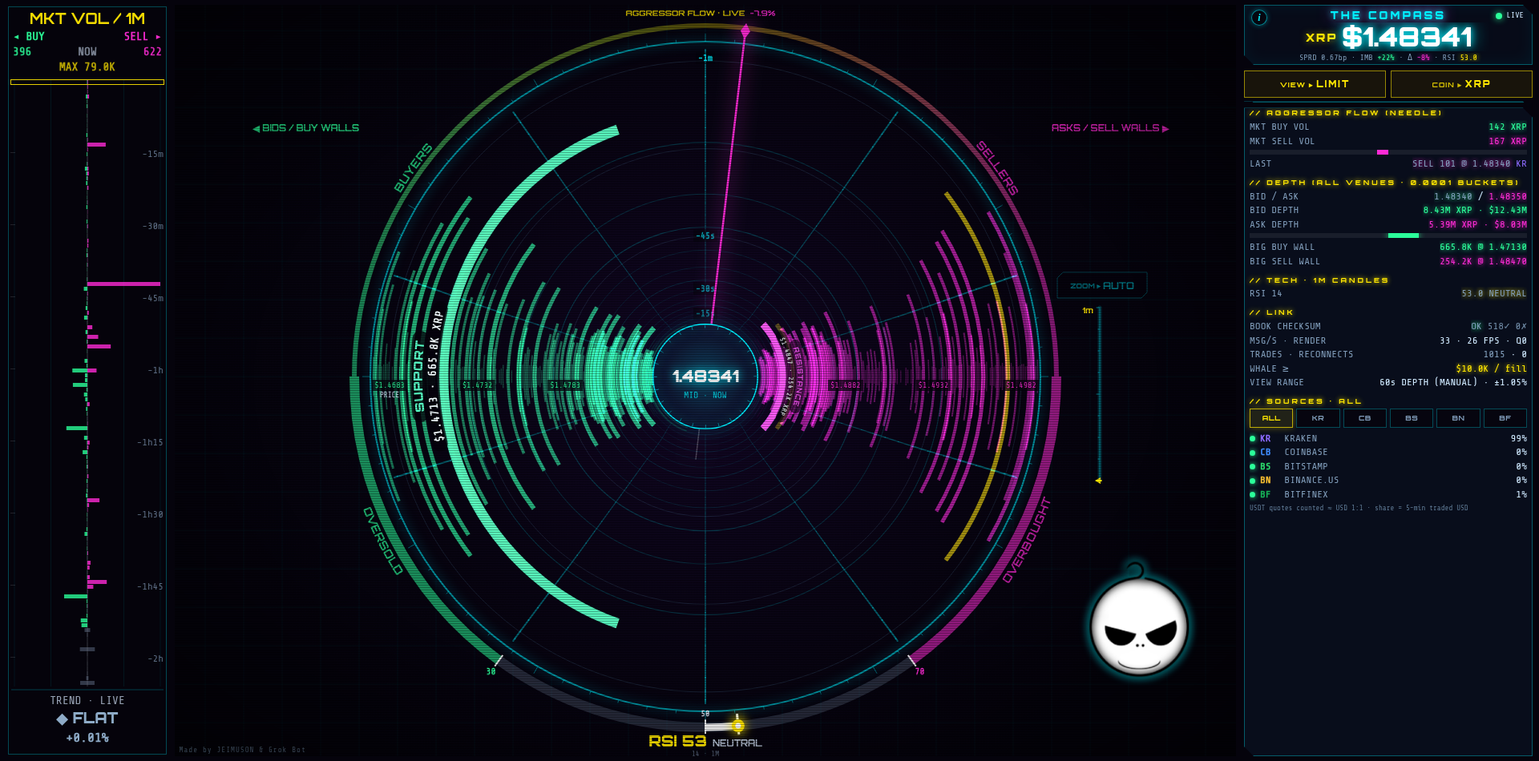
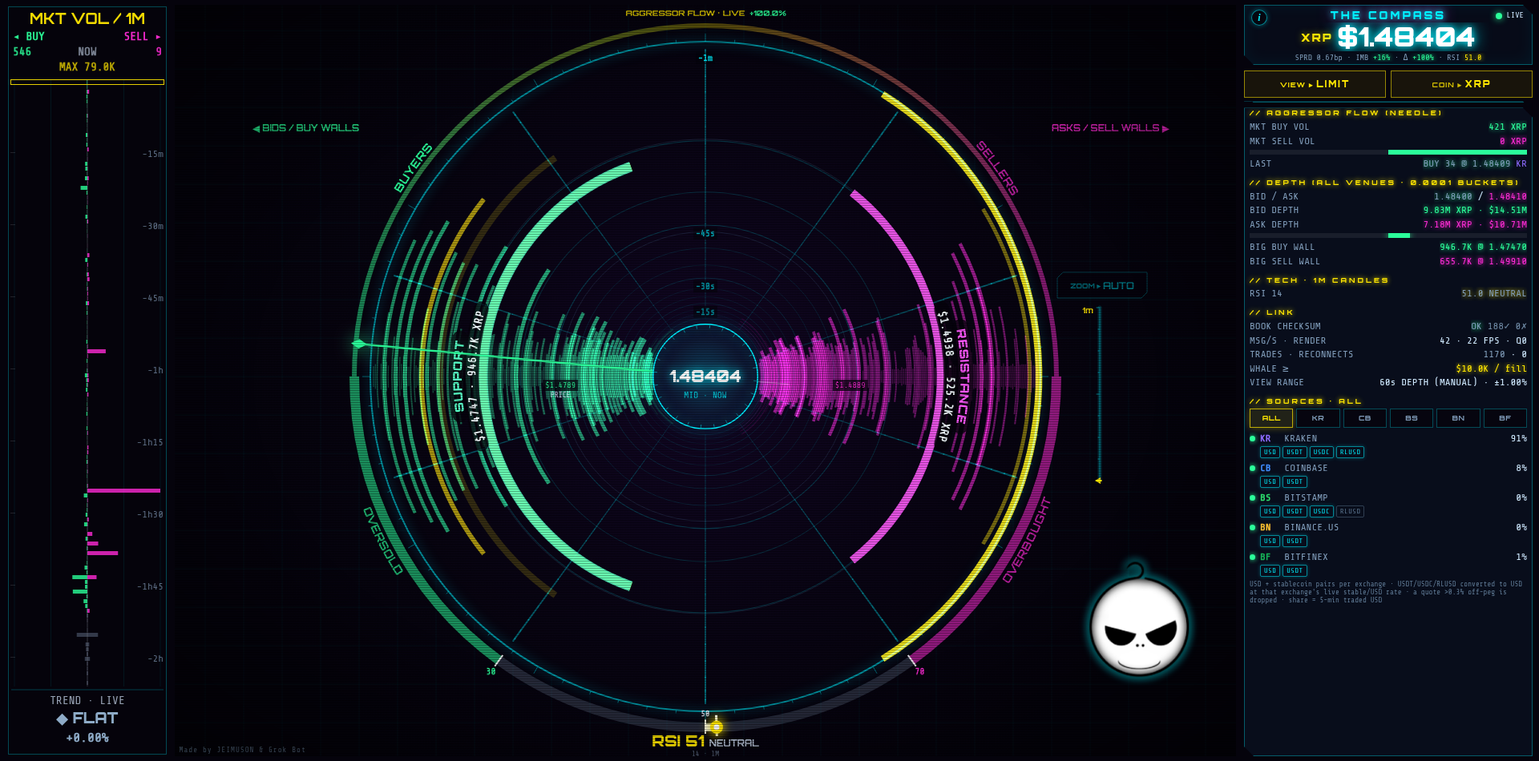
Merge USDT/USDC/RLUSD pairs per exchange, converted at live stable/USD rates, off-peg guard, SRC quote chips (build 20261003-0700)

diff --git a/index.html b/index.html
@@ -3,7 +3,7 @@
 <head>
 <meta charset="utf-8">
 <meta http-equiv="Cache-Control" content="no-cache, no-store, must-revalidate"><meta http-equiv="Pragma" content="no-cache"><meta http-equiv="Expires" content="0">
-<script>window.OFC_BUILD='20261003-0613';try{localStorage.removeItem('ofc.trail')}catch(e){};(function(){try{if(!/^https?:/.test(location.protocol))return;fetch(location.pathname+'?_='+Date.now(),{cache:'no-store'}).then(r=>r.text()).then(t=>{const m=t.match(/OFC_BUILD='([^']+)'/);if(m&&m[1]!==window.OFC_BUILD&&sessionStorage.getItem('ofcB')!==m[1]){sessionStorage.setItem('ofcB',m[1]);location.replace(location.pathname+'?v='+m[1]+location.hash);}}).catch(()=>{});}catch(e){}})();</script>
+<script>window.OFC_BUILD='20261003-0700';try{localStorage.removeItem('ofc.trail')}catch(e){};(function(){try{if(!/^https?:/.test(location.protocol))return;fetch(location.pathname+'?_='+Date.now(),{cache:'no-store'}).then(r=>r.text()).then(t=>{const m=t.match(/OFC_BUILD='([^']+)'/);if(m&&m[1]!==window.OFC_BUILD&&sessionStorage.getItem('ofcB')!==m[1]){sessionStorage.setItem('ofcB',m[1]);location.replace(location.pathname+'?v='+m[1]+location.hash);}}).catch(()=>{});}catch(e){}})();</script>
 <script>/* viewport height guard: Android standalone PWAs can report a stale/too-tall 100dvh right after a reload (e.g. coin switch) -> size from the smallest sane measurement and keep re-checking */
 (function(){var R=document.documentElement;function m(){var v=window.visualViewport,c=[window.innerHeight,R.clientHeight];if(v&&v.height>0)c.push(v.height);c=c.filter(function(x){return x>100;});if(!c.length)return;
   var h=Math.round(Math.min.apply(null,c))+'px';if(R.style.getPropertyValue('--apph')!==h){R.style.setProperty('--apph',h);try{window.dispatchEvent(new Event('ofc-vh'));}catch(e){}}}
@@ -93,6 +93,8 @@ body.hublogo #top .logo{display:none}   /* mobile: logo lives in the compass hub
 #srcBtns button.on{color:var(--yl);border-color:rgba(255,230,0,.7);background:rgba(255,230,0,.1);box-shadow:0 0 8px rgba(255,230,0,.35)}
 #srcList .row .dot{display:inline-block;width:7px;height:7px;border-radius:50%;margin-right:6px;vertical-align:middle}
 #srcList .row .vt{display:inline-block;min-width:2.4em;font-weight:700}
+#srcList .qcs{display:flex;flex-wrap:wrap;gap:3px;margin:1px 0 4px 13px}#srcList .qc{font-size:8.5px;line-height:1;padding:2px 4px;border:1px solid rgba(95,122,149,.45);color:#5f7a95;letter-spacing:.5px;border-radius:2px}
+#srcList .qc.on{color:var(--cy);border-color:rgba(0,240,255,.55);box-shadow:0 0 5px rgba(0,240,255,.25)}#srcList .qc.x{color:#ff3b6b;border-color:rgba(255,59,107,.5);text-decoration:line-through}
 .srcNote{font-size:9px;color:#5f7a95;margin-top:3px}
 #pages .row{font-size:11px}
 #pages h3{margin-right:44px}
@@ -177,7 +179,7 @@ body.hublogo #top .logo{display:none}   /* mobile: logo lives in the compass hub
 <body>
 <div id="coinPk" role="dialog" aria-modal="true" aria-labelledby="coinT"><div id="coinBox" class="panel">
  <div id="coinHd"><h2 id="coinT">// SELECT COIN</h2><button id="coinX" aria-label="close">✕</button></div>
- <div id="coinGrid"></div><div class="infoFoot">all pairs in USD · Kraken, Coinbase, Bitstamp, Binance.US, Bitfinex</div></div></div>
+ <div id="coinGrid"></div><div class="infoFoot">USD + USDT / USDC / RLUSD pairs, priced in USD at live rates · Kraken, Coinbase, Bitstamp, Binance.US, Bitfinex</div></div></div>
 <div id="tip" role="dialog" aria-modal="true" aria-labelledby="tipT"><div id="tipBox" class="panel">
  <div id="tipHd"><h2 id="tipT">// FOUND THE SECRET</h2><button id="tipX" aria-label="close">✕</button></div>
  <div id="tipBody"><img src="logo-128.png" alt="" width="72" height="72"><p class="tipS">Enjoying the compass? Buy me a coffee ☕</p><a id="tipGo" href="https://ko-fi.com/jeimuson" target="_blank" rel="noopener">Tip on Ko-fi</a>
@@ -205,8 +207,8 @@ body.hublogo #top .logo{display:none}   /* mobile: logo lives in the compass hub
  <li><b>AUTO off</b> = full zoom out; then zoom by pinch, wheel or the zoom bar.</li></ul>
  <h3>ALSO</h3>
  <ul><li><b>RSI arc</b> (bottom): momentum. Left = oversold, right = overbought.</li>
- <li><b>SRC</b>: venues feeding the book. Pick ALL or one exchange.</li>
- <li><b>COIN</b>: switch between BTC, ETH, XRP, SOL and other big coins (USD pairs on all five exchanges). Your pick is remembered; links can use <b>?coin=ETH</b>.</li></ul>
+ <li><b>SRC</b>: venues feeding the book. Pick ALL or one exchange. Each exchange merges its USD pair with its <b>USDT / USDC / RLUSD</b> pairs where listed (chips show which are live). Stablecoin prices are converted to USD at that exchange's live stable/USD rate; a quote more than ~0.3% off-peg is left out.</li>
+ <li><b>COIN</b>: switch between BTC, ETH, XRP, SOL and other big coins (USD and stablecoin pairs from all five exchanges). Your pick is remembered; links can use <b>?coin=ETH</b>.</li></ul>
  <div class="infoCred">Made by JEIMUSON &amp; Grok Bot</div>
  <div class="infoFoot">tap outside, ✕ or Esc to close</div>
  </div>
@@ -258,7 +260,7 @@ body.hublogo #top .logo{display:none}   /* mobile: logo lives in the compass hub
     <h3>// SOURCES · <span class="yl" id="srcSel">ALL</span></h3>
     <div id="srcBtns"></div>
     <div id="srcList"></div>
-    <div class="srcNote">USDT quotes counted ≈ USD 1:1 · share = 5-min traded USD</div>
+    <div class="srcNote">USD + stablecoin pairs per exchange · USDT/USDC/RLUSD converted to USD at that exchange's live stable/USD rate · a quote &gt;0.3% off-peg is dropped · share = 5-min traded USD</div>
    </div>
   </div>
 </div>
@@ -283,6 +285,20 @@ const COINS={
 const COIN=(()=>{let c='';try{c=(new URLSearchParams(location.search).get('coin')||'').toUpperCase();}catch(e){}
   if(!COINS[c]){try{c=localStorage.getItem('ofc.coin')||'';}catch(e){}}if(!COINS[c])c='XRP';try{localStorage.setItem('ofc.coin',c);}catch(e){}return c;})();
 const CC=COINS[COIN];window.COIN=COIN;window.COINS_LIST=Object.keys(COINS);
+// stablecoin pairs merged next to each USD pair (listed + trading with real 24h volume per the public APIs, checked 2026-10-03;
+// skipped: Binance.US ADA/USDC ~$0 volume; Coinbase USDC pairs are delisted (USDC trades as USD there); Bitfinex has no USDC/RLUSD pairs)
+const SQT={
+ BTC: {kr:'USDT USDC',      cb:'USDT',bs:'USDT USDC RLUSD',bn:'USDT USDC',bf:'USDT'},
+ ETH: {kr:'USDT USDC',      cb:'USDT',bs:'USDT USDC RLUSD',bn:'USDT USDC',bf:'USDT'},
+ XRP: {kr:'USDT USDC RLUSD',cb:'USDT',bs:'USDT USDC RLUSD',bn:'USDT',     bf:'USDT'},
+ SOL: {kr:'USDT USDC',      cb:'USDT',bs:'USDC',           bn:'USDT USDC',bf:'USDT'},
+ DOGE:{kr:'USDT USDC',      cb:'USDT',                     bn:'USDT',     bf:'USDT'},
+ ADA: {kr:'USDT USDC',      cb:'USDT',                     bn:'USDT',     bf:'USDT'},
+ LINK:{kr:'USDT USDC',      cb:'USDT',                     bn:'USDT',     bf:'USDT'},
+ LTC: {kr:'USDT USDC',                                     bn:'USDT',     bf:'USDT'},
+ AVAX:{kr:'USDT USDC',      cb:'USDT',                     bn:'USDT',     bf:'USDT'},
+ XLM: {                     cb:'USDT',                     bn:'USDT',     bf:'USDT'}};
+const SQ={};{const T=SQT[COIN]||{};for(const [x,v] of [['kr','kraken'],['cb','coinbase'],['bs','bitstamp'],['bn','binanceus'],['bf','bitfinex']])SQ[v]=(T[x]||'').split(' ').filter(Boolean);}
 const KD=Math.max(0,Math.ceil(-Math.log10(CC.BUCK/2))+1);   // decimals for bucket keys
 const fmtX=(p,d)=>p.toLocaleString('en-US',{minimumFractionDigits:d,maximumFractionDigits:d});
 const fmtP=p=>CC.dp>=4?p.toFixed(CC.dp):fmtX(p,CC.dp), fmtH=p=>CC.dh>=4?p.toFixed(CC.dh):fmtX(p,CC.dh);   // main price / compact price (hub, walls, whales)
@@ -488,8 +504,10 @@ setInterval(()=>{if(!trades.length)return;const n=Date.now();let u3=0,u60=0,old=
 
 // ---------------- trades ----------------
 function hashAng(id){let x=(id*2654435761)>>>0;x^=x>>>15;x=(x*2246822519)>>>0;x^=x>>>13;return (x%10000)/10000;}
-function onTrades(msg){   // Kraken WS trades (snapshot = last 50, placed at true age)
-  addTrades(msg.data.map(t=>({v:'kraken',k:'kraken',id:t.trade_id,ts:t.timestamp?parseTs(t.timestamp):Date.now(),side:t.side,qty:+t.qty,px:+t.price})));
+function onTrades(msg){   // Kraken WS trades (snapshot = last 50, placed at true age); stablecoin pairs go through addQ (USD conversion)
+  const mk=t=>({v:'kraken',k:'kraken',id:t.trade_id,ts:t.timestamp?parseTs(t.timestamp):Date.now(),side:t.side,qty:+t.qty,px:+t.price});
+  const main=[],by={};for(const t of msg.data){if(!t.symbol||t.symbol===SYMBOL)main.push(mk(t));else{const K=KBK[t.symbol];if(!K)continue;const o=mk(t);o.k=K.B.k;o.id=K.q+t.trade_id;(by[t.symbol]=by[t.symbol]||[]).push(o);}}
+  if(main.length)addTrades(main);for(const s in by)addQ('kraken',KBK[s].q,by[s]);
 }
 // RAW = every venue's trades (last 30 min) so the ALL / single-venue switch can rebuild trade-derived state
 let RAW=[];const rawSeen=new Set();
@@ -555,36 +573,68 @@ const VEN={
   kraken:  {n:'KRAKEN',  t:'KR',col:'#8d6bff',pair:CC.kr},
   coinbase:{n:'COINBASE',t:'CB',col:'#3f8cff',pair:CC.cb},
   bitstamp:{n:'BITSTAMP',t:'BS',col:'#2bd96b',pair:CC.bs},
-  binanceus:{n:'BINANCE.US',t:'BN',col:'#f3ba2f',pair:CC.bn.toUpperCase()+'USD+USDT'},
+  binanceus:{n:'BINANCE.US',t:'BN',col:'#f3ba2f',pair:CC.bn.toUpperCase()+'USD'},
   bitfinex:{n:'BITFINEX',t:'BF',col:'#16b157',pair:CC.bf},
 };
 for(const v of Object.values(VEN)){v.st='INIT';v.last=0;v.share=0;v.usd5=0;v.rc=0;}
 // every book: {v, k, b:Map(price->qty), a:Map, ready}; Kraken's existing `book` is registered as one of them
 const BOOKS=[{v:'kraken',k:'kraken',b:book.bids,a:book.asks,get ready(){return book.ready;}}];
-function mkBook(v,k){const B={v,k,b:new Map(),a:new Map(),ready:false};BOOKS.push(B);return B;}
+function mkBook(v,k,q){const B={v,k,b:new Map(),a:new Map(),ready:false};if(q&&q!=='USD')B.q=q;BOOKS.push(B);BKK.set(k,B);return B;}
+const BKK=new Map([['kraken',BOOKS[0]]]);   // book key -> book
+// ---- stablecoin quotes -> USD: each exchange's own live stable/USD mid (lightly smoothed); missing -> median of the other exchanges; none yet -> wait up to 6 s, then 1:1
+const RATE={};for(const v in VEN)RATE[v]={};const RT0=Date.now();
+function setRate(v,q,bid,ask,al){bid=+bid;ask=+ask;if(!(bid>0&&ask>=bid))return;const m=(bid+ask)/2;if(m<0.8||m>1.2)return;const o=RATE[v][q];
+  if(o){o.r+=(m-o.r)*(al||0.3);o.t=Date.now();}else{RATE[v][q]={r:m,t:Date.now()};combDirty=true;}flushPend();}
+const PSIM={};   // test hook: forced stable rate
+function rateOf(v,q){if(!q||q==='USD')return 1;if(PSIM[v+'|'+q])return PSIM[v+'|'+q];const o=RATE[v]&&RATE[v][q];if(o)return o.r;const xs=[];for(const k in RATE){const x=RATE[k][q];if(x)xs.push(x.r);}
+  if(xs.length){xs.sort((a,b)=>a-b);return xs.length%2?xs[xs.length>>1]:(xs[xs.length/2-1]+xs[xs.length/2])/2;}return 1;}
+function rateReady(v,q){if(!q||q==='USD')return true;if(RATE[v]&&RATE[v][q])return true;return Date.now()-RT0>6000||Object.values(RATE).some(R=>R[q]);}
+// stablecoin trades: converted to USD at arrival (raw price kept as rp); held until the venue's rate is known; dropped while that pair is excluded (off-peg)
+const PEND=[];
+function addQ(v,q,list){if(!list||!list.length)return;if(!q||q==='USD'){addTrades(list);return;}
+  if(!rateReady(v,q)){PEND.push([v,q,list]);if(PEND.length>200)PEND.shift();return;}
+  const B=BKK.get(list[0].k);if(B&&B.off)return;const f=rateOf(v,q);for(const t of list){t.rp=t.px;t.px=t.px*f;t.q=q;}addTrades(list);}
+function flushPend(){if(!PEND.length)return;const L=PEND.splice(0);for(const [v,q,l] of L)addQ(v,q,l);}
+setInterval(flushPend,1000);
+// off-peg guard: a stable whose own rate sits > 0.3% from 1.00 for 30 s is excluded on that exchange (back after 30 s inside 0.2%);
+// per-book guard: a stable book whose converted mid stays > 0.3% from the USD books' median mid (~20 s EMA) is excluded (back inside 0.15%)
+const PEG={};
+function bkMid(B){let bb=0,aa=Infinity;for(const p of B.b.keys())if(p>bb)bb=p;for(const p of B.a.keys())if(p<aa)aa=p;return bb&&aa<Infinity&&aa>bb?(bb+aa)/2:0;}
+setInterval(()=>{for(const v in SQ)for(const q of SQ[v]){const k=v+'|'+q,P=PEG[k]||(PEG[k]={bad:0,good:0,off:false});if(!rateReady(v,q))continue;const d=Math.abs(rateOf(v,q)-1);
+    if(d>0.003){P.bad+=2;P.good=0;}else if(d<0.002){P.good+=2;P.bad=0;}if(!P.off&&P.bad>=30)P.off=true;else if(P.off&&P.good>=30)P.off=false;}
+  const um=BOOKS.filter(B=>!B.q&&B.ready&&VEN[B.v].st==='LIVE').map(bkMid).filter(x=>x>0).sort((a,b)=>a-b);
+  if(um.length){const ref=um.length%2?um[um.length>>1]:(um[um.length/2-1]+um[um.length/2])/2;
+    for(const B of BOOKS){if(!B.q||!B.ready||!rateReady(B.v,B.q))continue;const m=bkMid(B);if(!m)continue;const p=m*rateOf(B.v,B.q)/ref-1;
+      B.prem=B.prem==null?p:B.prem+(p-B.prem)*0.1;B.pn=(B.pn||0)+1;if(!B.poff&&B.pn>=10&&Math.abs(B.prem)>0.003)B.poff=true;else if(B.poff&&Math.abs(B.prem)<0.0015)B.poff=false;}}
+  for(const B of BOOKS)if(B.q){const o=!!(B.poff||(PEG[B.v+'|'+B.q]||{}).off);if(o!==!!B.off){B.off=o;combDirty=true;}}},2000);
+// books used for the merged view (selected venue or ALL; stable books once their rate is known and not excluded) + USD-converted level views
+const useB=()=>BOOKS.filter(B=>B.ready&&!B.off&&(!B.q||rateReady(B.v,B.q))&&(SRC==='all'||B.v===SRC)&&VEN[B.v].st==='LIVE');
+function BV(m,f){if(f===1)return m;const o=new Map();for(const [p,q] of m)o.set(p*f,(o.get(p*f)||0)+q);return o;}
+function vw(B){if(!B.q)return B;const f=rateOf(B.v,B.q),o=Object.create(B);o.B0=B;o.b=BV(B.b,f);o.a=BV(B.a,f);return o;}
+let COMB_ONE=false;
 let SRC=(()=>{try{const v=localStorage.getItem('ofc.src');return v&&(v==='all'||VEN[v])?v:'all';}catch(e){return 'all';}})();
 let BREADY=false, combDirty=true;
 const VDEPTH=150, BUCK=CC.BUCK, BAND=0.025;   // low-priced coins: top levels per venue merged into BUCK buckets; high-priced coins: buckets within ±2.5% of each venue's mid
 function topLv(m,desc,n){const a=[...m.entries()];a.sort(desc?(x,y)=>y[0]-x[0]:(x,y)=>x[0]-y[0]);if(a.length>n)a.length=n;return a;}
 function combine(){
-  combDirty=false;const use=BOOKS.filter(B=>B.ready&&(SRC==='all'||B.v===SRC)&&VEN[B.v].st==='LIVE');
+  combDirty=false;const use=useB().map(vw);
   if(!use.length){BREADY=false;return;}
   const per=[];let wsum=0,msum=0;
   if(CC.band){for(const B of use){let bb=0,aa=Infinity;for(const p of B.b.keys())if(p>bb)bb=p;for(const p of B.a.keys())if(p<aa)aa=p;
     if(!bb||aa===Infinity)continue;
-    if(bb>=aa){B.ready=false;B.crossed=(B.crossed||0)+1;if(B.resync)B.resync();continue;}   // crossed own book = corrupt -> resnapshot
+    if(bb>=aa){const R=B.B0||B;R.ready=false;R.crossed=(R.crossed||0)+1;if(R.resync)R.resync();continue;}   // crossed own book = corrupt -> resnapshot
     const m=(bb+aa)/2,w=1e-6+(BKVOL.get(B.k)||0);per.push({B,bb,aa,m});wsum+=w;msum+=m*w;}}
   else for(const B of use){const bb=topLv(B.b,true,VDEPTH),aa=topLv(B.a,false,VDEPTH);if(!bb.length||!aa.length)continue;
-    const m=(bb[0][0]+aa[0][0])/2;if(bb[0][0]>=aa[0][0]){B.ready=false;B.crossed=(B.crossed||0)+1;if(B.resync)B.resync();continue;}   // crossed own book = corrupt -> resnapshot
+    const m=(bb[0][0]+aa[0][0])/2;if(bb[0][0]>=aa[0][0]){const R=B.B0||B;R.ready=false;R.crossed=(R.crossed||0)+1;if(R.resync)R.resync();continue;}   // crossed own book = corrupt -> resnapshot
     const w=1e-6+(BKVOL.get(B.k)||0);per.push({bb,aa});wsum+=w;msum+=m*w;}
   if(!per.length){BREADY=false;return;}
-  const M=msum/wsum, one=per.length===1;
+  const M=msum/wsum, one=per.length===1;COMB_ONE=one;
   const bm=new Map(),am=new Map(),key=p=>one?p:Math.round(p/BUCK)*BUCK;let rb=0,ra=Infinity;
   if(CC.band){const BK=one?BUCK/2:BUCK;for(const {B,m} of per){const lo=m*(1-BAND),hi=m*(1+BAND);
     for(const [p,q] of B.b){if(p<lo)continue;if(p<M&&p>rb)rb=p;const k=+(Math.floor(p/BK)*BK).toFixed(KD);bm.set(k,(bm.get(k)||0)+q);}
     for(const [p,q] of B.a){if(p>hi)continue;if(p>M&&p<ra)ra=p;const k=+(Math.ceil(p/BK)*BK).toFixed(KD);am.set(k,(am.get(k)||0)+q);}}}
   else for(const {bb,aa} of per){for(const [p,q] of bb){const k=+key(p).toFixed(KD);bm.set(k,(bm.get(k)||0)+q);}for(const [p,q] of aa){const k=+key(p).toFixed(KD);am.set(k,(am.get(k)||0)+q);}}
-  // venues/USDT books can overlap slightly; levels on the wrong side of the volume-weighted mid are dropped
+  // venues / stablecoin books can overlap slightly; levels on the wrong side of the volume-weighted mid are dropped
   sortedB=[...bm.entries()].filter(x=>x[0]<M).sort((x,y)=>y[0]-x[0]);sortedA=[...am.entries()].filter(x=>x[0]>M).sort((x,y)=>x[0]-y[0]);
   if(EAT&&sortedB.length>12){const u=Math.max(0,Math.min(1,(Date.now()-EAT.t0-EAT.hold)/EAT.ms));if(!EAT.q0){if(!EAT.px){let bd=1e9;for(const x of sortedB){const d=Math.abs(rOf(dispMid-x[0])-0.55*RMAX);if(d<bd){bd=d;EAT.px=x[0];}}}EAT.q0=2*Math.max(...sortedB.map(x=>x[1]),...sortedA.map(x=>x[1]));}let e=sortedB.find(x=>x[0]===EAT.px);if(!e){e=[EAT.px,0];sortedB.push(e);sortedB.sort((x,y)=>y[0]-x[0]);}e[1]=EAT.q0*(1-(EAT.kind==='pull'?0.98:0.9)*u);}   // test hook: a simulated bid wall (eaten: with fills / pulled: without)
   if(sortedB.length>200)sortedB.length=200;if(sortedA.length>200)sortedA.length=200;
@@ -613,23 +663,32 @@ function feed(v,url,onOpen,onMsg,staleMs){
 }
 const setLv=(m,p,q)=>{if(q>0)m.set(p,q);else m.delete(p);};
 // --- Coinbase Exchange (public, no auth): level2_batch + matches; 'side' on a match is the MAKER side
-{const B=mkBook('coinbase','coinbase');
- feed('coinbase','wss://ws-feed.exchange.coinbase.com',F=>{B.ready=false;F.send({type:'subscribe',product_ids:[CC.cb],channels:['level2_batch','matches']});},m=>{
+{const PR={[CC.cb]:mkBook('coinbase','coinbase')};for(const q of SQ.coinbase)PR[CC.cb.replace(/-USD$/,'-'+q)]=mkBook('coinbase','cb_'+q.toLowerCase(),q);
+ const RP=SQ.coinbase.map(q=>q+'-USD');   // stable/USD rate products (ticker = best bid/ask)
+ feed('coinbase','wss://ws-feed.exchange.coinbase.com',F=>{for(const B of Object.values(PR))B.ready=false;F.send({type:'subscribe',product_ids:Object.keys(PR),channels:['level2_batch','matches']});if(RP.length)F.send({type:'subscribe',product_ids:RP,channels:['ticker']});},m=>{
+  if(m.type==='ticker'){if(RP.includes(m.product_id))setRate('coinbase',m.product_id.split('-')[0],m.best_bid,m.best_ask);return;}
+  const B=PR[m.product_id];if(!B)return;
   if(m.type==='snapshot'){B.b.clear();B.a.clear();const lo=(+m.bids[0][0])*(CC.band?0.97:0.9),hi=(+m.asks[0][0])*(CC.band?1.03:1.1);
     for(const [p,q] of m.bids){const P=+p;if(P<lo)break;B.b.set(P,+q);}for(const [p,q] of m.asks){const P=+p;if(P>hi)break;B.a.set(P,+q);}B.ready=true;combDirty=true;}
   else if(m.type==='l2update'&&B.ready){for(const [sd,p,q] of m.changes)setLv(sd==='buy'?B.b:B.a,+p,+q);combDirty=true;}
-  else if(m.type==='match'){addTrades([{v:'coinbase',k:'coinbase',id:m.trade_id,ts:Date.parse(m.time),side:m.side==='sell'?'buy':'sell',qty:+m.size,px:+m.price}]);}
+  else if(m.type==='match'){addQ('coinbase',B.q,[{v:'coinbase',k:B.k,id:(B.q||'')+m.trade_id,ts:Date.parse(m.time),side:m.side==='sell'?'buy':'sell',qty:+m.size,px:+m.price}]);}
  },30000);
- setInterval(()=>{if(B.ready&&B.b.size+B.a.size>(CC.band?8000:4000)){const m=mid||0;if(!m)return;const L=CC.band?0.97:0.9,U=CC.band?1.03:1.1;for(const p of B.b.keys())if(p<m*L)B.b.delete(p);for(const p of B.a.keys())if(p>m*U)B.a.delete(p);}},15000);}
+ setInterval(()=>{for(const B of Object.values(PR))if(B.ready&&B.b.size+B.a.size>(CC.band?8000:4000)){const m=(mid||0)/rateOf('coinbase',B.q);if(!m)continue;const L=CC.band?0.97:0.9,U=CC.band?1.03:1.1;for(const p of B.b.keys())if(p<m*L)B.b.delete(p);for(const p of B.a.keys())if(p>m*U)B.a.delete(p);}},15000);}
 // --- Bitstamp: order_book channel = full top-100 snapshot on every push (no sequencing needed); live_trades type 0=buy 1=sell taker
-{const B=mkBook('bitstamp','bitstamp');
- feed('bitstamp','wss://ws.bitstamp.net',F=>{B.ready=false;F.send({event:'bts:subscribe',data:{channel:'order_book_'+CC.bs}});F.send({event:'bts:subscribe',data:{channel:'live_trades_'+CC.bs}});},(m,F)=>{
+{const PR={[CC.bs]:mkBook('bitstamp','bitstamp')};for(const q of SQ.bitstamp)PR[CC.bs.replace(/usd$/,q.toLowerCase())]=mkBook('bitstamp','bs_'+q.toLowerCase(),q);
+ const RQ={};for(const q of SQ.bitstamp)RQ[q.toLowerCase()+'usd']=q;   // stable/USD rate = smoothed live trade price (trades alternate bid/ask); until one prints, the other exchanges' median is used
+ feed('bitstamp','wss://ws.bitstamp.net',F=>{for(const s in PR){PR[s].ready=false;F.send({event:'bts:subscribe',data:{channel:'order_book_'+s}});F.send({event:'bts:subscribe',data:{channel:'live_trades_'+s}});}
+   for(const s in RQ)F.send({event:'bts:subscribe',data:{channel:'live_trades_'+s}});},(m,F)=>{
   if(m.event==='bts:request_reconnect'){F.resync();return;}
-  if(m.event==='data'&&m.channel==='order_book_'+CC.bs){B.b.clear();B.a.clear();for(const [p,q] of m.data.bids)B.b.set(+p,+q);for(const [p,q] of m.data.asks)B.a.set(+p,+q);B.ready=true;combDirty=true;}
-  else if(m.event==='trade'){const d=m.data;addTrades([{v:'bitstamp',k:'bitstamp',id:d.id,ts:+d.microtimestamp/1000,side:d.type===0?'buy':'sell',qty:+d.amount,px:+d.price}]);}
- },45000);}
-// --- Binance.US: diff depth stream + REST snapshot (CORS ok), lastUpdateId sequencing; <COIN>USD and <COIN>USDT (USDT≈USD)
-{const SU=CC.bn+'usd',ST=CC.bn+'usdt',SY={[SU]:mkBook('binanceus','bn_usd'),[ST]:mkBook('binanceus','bn_usdt')};
+  const ch=m.channel||'';
+  if(m.event==='trade'&&RQ[ch.slice(12)]){const p=+m.data.price;setRate('bitstamp',RQ[ch.slice(12)],p,p,0.1);return;}
+  if(m.event==='data'&&ch.startsWith('order_book_')){const B=PR[ch.slice(11)];if(!B)return;B.b.clear();B.a.clear();for(const [p,q] of m.data.bids)B.b.set(+p,+q);for(const [p,q] of m.data.asks)B.a.set(+p,+q);B.ready=true;combDirty=true;}
+  else if(m.event==='trade'&&ch.startsWith('live_trades_')){const B=PR[ch.slice(12)];if(!B)return;const d=m.data;addQ('bitstamp',B.q,[{v:'bitstamp',k:B.k,id:(B.q||'')+d.id,ts:+d.microtimestamp/1000,side:d.type===0?'buy':'sell',qty:+d.amount,px:+d.price}]);}
+ },45000);
+}
+// --- Binance.US: diff depth stream + REST snapshot (CORS ok), lastUpdateId sequencing; <COIN>USD + its stablecoin pairs (converted at the USDTUSD/USDCUSD bookTicker mid)
+{const SY={[CC.bn+'usd']:mkBook('binanceus','bn_usd')};for(const q of SQ.binanceus)SY[CC.bn+q.toLowerCase()]=mkBook('binanceus','bn_'+q.toLowerCase(),q);
+ const RS=SQ.binanceus.map(q=>q.toLowerCase()+'usd@bookTicker');
  for(const B of Object.values(SY)){B.buf=[];B.lid=0;B.u=0;}
  const snap=async(sym,F)=>{const B=SY[sym];B.ready=false;B.buf=[];B.snapping=true;
    try{const r=await fetch('https://api.binance.us/api/v3/depth?symbol='+sym.toUpperCase()+'&limit='+(CC.band?1000:500));const j=await r.json();
@@ -638,33 +697,51 @@ const setLv=(m,p,q)=>{if(q>0)m.set(p,q);else m.delete(p);};
  const apply=(B,e,F)=>{if(e.u<=B.lid)return;
    if(B.u&&e.U!==B.u+1){B.ready=false;B.resyncs=(B.resyncs||0)+1;snap(B.sym,F);return;}   // gap -> resnapshot
    for(const [p,q] of e.b)setLv(B.b,+p,+q);for(const [p,q] of e.a)setLv(B.a,+p,+q);B.u=e.u;};
- SY[SU].sym=SU;SY[ST].sym=ST;
+ for(const s in SY)SY[s].sym=s;
  for(const B of Object.values(SY))B.resync=()=>{B.ready=false;VEN.binanceus.F&&snap(B.sym,VEN.binanceus.F);};
- feed('binanceus','wss://stream.binance.us:9443/stream?streams='+SU+'@depth@100ms/'+ST+'@depth@100ms/'+SU+'@trade/'+ST+'@trade',F=>{for(const k in SY)snap(k,F);},(m,F)=>{
-  const st=m.stream||'',d=m.data;if(!d)return;const sym=st.split('@')[0],B=SY[sym];if(!B)return;
+ feed('binanceus','wss://stream.binance.us:9443/stream?streams='+[...Object.keys(SY).map(s=>s+'@depth@100ms'),...Object.keys(SY).map(s=>s+'@trade'),...RS].join('/'),F=>{for(const k in SY)snap(k,F);for(const q of SQ.binanceus)fetch('https://api.binance.us/api/v3/ticker/bookTicker?symbol='+q+'USD').then(r=>r.json()).then(j=>setRate('binanceus',q,j.bidPrice,j.askPrice)).catch(()=>{});},(m,F)=>{
+  const st=m.stream||'',d=m.data;if(!d)return;if(st.endsWith('@bookTicker')){setRate('binanceus',String(d.s).replace(/USD$/,''),d.b,d.a);return;}const sym=st.split('@')[0],B=SY[sym];if(!B)return;
   if(d.e==='depthUpdate'){if(B.snapping){B.buf.push(d);if(B.buf.length>600)B.buf.shift();return;}if(!B.lid)return;apply(B,d,F);combDirty=true;}
-  else if(d.e==='trade'){addTrades([{v:'binanceus',k:B.k,id:sym+d.t,ts:d.T,side:d.m?'sell':'buy',qty:+d.q,px:+d.p}]);}
+  else if(d.e==='trade'){addQ('binanceus',B.q,[{v:'binanceus',k:B.k,id:sym+d.t,ts:d.T,side:d.m?'sell':'buy',qty:+d.q,px:+d.p}]);}
  },90000);}
 // --- Bitfinex: book P0 len 100 with CRC32 checksum (flag 131072), trades 'te'
-{const B=mkBook('bitfinex','bitfinex');const ch={};
- const bfxCk=()=>{const bb=topLv(B.b,true,25),aa=topLv(B.a,false,25),o=[];for(let i=0;i<25;i++){if(bb[i])o.push(bb[i][0],bb[i][1]);if(aa[i])o.push(aa[i][0],-aa[i][1]);}return crc32(o.join(':'))|0;};
- feed('bitfinex','wss://api-pub.bitfinex.com/ws/2',F=>{B.ready=false;F.send({event:'conf',flags:131072});F.send({event:'subscribe',channel:'book',symbol:CC.bf,prec:'P0',len:CC.band?'250':'100'});F.send({event:'subscribe',channel:'trades',symbol:CC.bf});},(m,F)=>{
-  if(!Array.isArray(m)){if(m.event==='subscribed')ch[m.chanId]=m.channel;else if(m.event==='info'&&m.code===20051)F.resync();return;}
-  const c=ch[m[0]],d=m[1];if(d==='hb')return;
+{const PR={[CC.bf]:mkBook('bitfinex','bitfinex')};for(const q of SQ.bitfinex)PR[CC.bf.replace(/USD$/,{USDT:'UST'}[q]||q)]=mkBook('bitfinex','bf_'+q.toLowerCase(),q);const ch={};
+ const bfxCk=B=>{const bb=topLv(B.b,true,25),aa=topLv(B.a,false,25),o=[];for(let i=0;i<25;i++){if(bb[i])o.push(bb[i][0],bb[i][1]);if(aa[i])o.push(aa[i][0],-aa[i][1]);}return crc32(o.join(':'))|0;};
+ feed('bitfinex','wss://api-pub.bitfinex.com/ws/2',F=>{for(const k in ch)delete ch[k];F.send({event:'conf',flags:131072});for(const s in PR){PR[s].ready=false;F.send({event:'subscribe',channel:'book',symbol:s,prec:'P0',len:CC.band?'250':'100'});F.send({event:'subscribe',channel:'trades',symbol:s});}
+   if(SQ.bitfinex.includes('USDT'))F.send({event:'subscribe',channel:'ticker',symbol:'tUSTUSD'});},(m,F)=>{
+  if(!Array.isArray(m)){if(m.event==='subscribed')ch[m.chanId]={c:m.channel,B:PR[m.symbol]};else if(m.event==='info'&&m.code===20051)F.resync();return;}
+  const C=ch[m[0]],d=m[1];if(!C||d==='hb')return;const c=C.c,B=C.B;
+  if(c==='ticker'){if(Array.isArray(d))setRate('bitfinex','USDT',d[0],d[2]);return;}
+  if(!B)return;
   if(c==='book'){
-    if(d==='cs'){const ok=bfxCk()===m[2];B.ckOk=(B.ckOk||0)+(ok?1:0);if(!ok){B.ckBad=(B.ckBad||0)+1;B.ready=false;F.resync();}return;}
+    if(d==='cs'){const ok=bfxCk(B)===m[2];B.ckOk=(B.ckOk||0)+(ok?1:0);if(!ok){B.ckBad=(B.ckBad||0)+1;B.ready=false;F.resync();}return;}
     const lv=Array.isArray(d[0])?(B.b.clear(),B.a.clear(),d):[d];
     for(const [p,cnt,amt] of lv){if(cnt===0){(amt>0?B.b:B.a).delete(p);}else if(amt>0)B.b.set(p,amt);else B.a.set(p,-amt);}
     B.ready=true;combDirty=true;}
   else if(c==='trades'){
-    if(Array.isArray(d)){const dn=Date.now();addTrades(d.filter(t=>dn-t[1]<HIST_SEC*1000).map(t=>({v:'bitfinex',k:'bitfinex',id:t[0],ts:t[1],side:t[2]>0?'buy':'sell',qty:Math.abs(t[2]),px:t[3]})));}
-    else if(d==='te'){const t=m[2];addTrades([{v:'bitfinex',k:'bitfinex',id:t[0],ts:t[1],side:t[2]>0?'buy':'sell',qty:Math.abs(t[2]),px:t[3]}]);}}
+    const mk=t=>({v:'bitfinex',k:B.k,id:(B.q||'')+t[0],ts:t[1],side:t[2]>0?'buy':'sell',qty:Math.abs(t[2]),px:t[3]});
+    if(Array.isArray(d)){const dn=Date.now();addQ('bitfinex',B.q,d.filter(t=>dn-t[1]<HIST_SEC*1000).map(mk));}
+    else if(d==='te'){addQ('bitfinex',B.q,[mk(m[2])]);}}
  },30000);}
 // per-book / per-venue traded USD over the last 5 min (mid weights + SOURCES share)
 const BKVOL=new Map();
 setInterval(()=>{const cut=Date.now()-300000,bk=new Map(),vv={};let tot=0;
   for(let i=RAW.length-1;i>=0;i--){const t=RAW[i];if(t.ts<cut)break;const u=t.qty*t.px;bk.set(t.k,(bk.get(t.k)||0)+u);vv[t.v]=(vv[t.v]||0)+u;tot+=u;}
   BKVOL.clear();for(const [k,u] of bk)BKVOL.set(k,u);for(const [k,v] of Object.entries(VEN)){v.usd5=vv[k]||0;v.share=tot?v.usd5/tot:0;}},1000);
+// ---------------- Kraken stablecoin books (same socket as the USD pair; own CRC32 checksum per book) ----------------
+const KBASE=CC.kr.split('/')[0],KDEP=100,KBK={};
+for(const q of SQ.kraken){const s=KBASE+'/'+q,K={q,s,B:mkBook('kraken','kr_'+q.toLowerCase(),q),pp:null,qp:null,bad:0};
+  K.resync=()=>{K.B.ready=false;K.bad=0;if(!ws||ws.readyState!==1)return;send({method:'unsubscribe',params:{channel:'book',symbol:[s],depth:KDEP}});setTimeout(()=>send({method:'subscribe',params:{channel:'book',symbol:[s],depth:KDEP,snapshot:true}}),250);};
+  K.B.resync=K.resync;KBK[s]=K;}
+const KSY=Object.keys(KBK);
+function onKB(msg){for(const d of msg.data||[]){const K=KBK[d.symbol];if(!K)continue;const B=K.B;
+  if(msg.type==='snapshot'){B.b.clear();B.a.clear();B.ready=true;K.bad=0;}
+  if(!B.ready)continue;applyLevels(B.b,d.bids||[]);applyLevels(B.a,d.asks||[]);
+  const sb=[...B.b.entries()].sort((x,y)=>y[0]-x[0]),sa=[...B.a.entries()].sort((x,y)=>x[0]-y[0]);
+  if(sb.length>KDEP){for(const [p] of sb.slice(KDEP))B.b.delete(p);sb.length=KDEP;}if(sa.length>KDEP){for(const [p] of sa.slice(KDEP))B.a.delete(p);sa.length=KDEP;}
+  if(d.checksum!==undefined&&K.pp!=null){let s='';for(let i=0;i<10&&i<sa.length;i++)s+=fmtCk(sa[i][0],K.pp)+fmtCk(sa[i][1],K.qp);for(let i=0;i<10&&i<sb.length;i++)s+=fmtCk(sb[i][0],K.pp)+fmtCk(sb[i][1],K.qp);
+    if(crc32(s)===d.checksum){B.ckOk=(B.ckOk||0)+1;K.bad=0;}else{B.ckBad=(B.ckBad||0)+1;if(++K.bad>=2)K.resync();}}
+  combDirty=true;}}
 // ---------------- websocket (Kraken) ----------------
 let seeded=false, ws=null, backoff=1000, lastMsg=0, reconnectTimer=null;
 function send(o){if(ws&&ws.readyState===1)ws.send(JSON.stringify(o));}
@@ -678,18 +755,21 @@ function connect(){
     book.ready=false;
     send({method:'subscribe',params:{channel:'instrument',snapshot:true}});
     send({method:'subscribe',params:{channel:'book',symbol:[SYMBOL],depth:DEPTH,snapshot:true}});
-    send({method:'subscribe',params:{channel:'trade',symbol:[SYMBOL],snapshot:!seeded}});seeded=true;
+    if(KSY.length){send({method:'subscribe',params:{channel:'book',symbol:KSY,depth:KDEP,snapshot:true}});send({method:'subscribe',params:{channel:'ticker',symbol:SQ.kraken.map(q=>q+'/USD'),event_trigger:'bbo'}});}
+    send({method:'subscribe',params:{channel:'trade',symbol:[SYMBOL,...KSY],snapshot:!seeded}});seeded=true;
     send({method:'subscribe',params:{channel:'ohlc',symbol:[SYMBOL],interval:1,snapshot:true}});
   };
   ws.onmessage=ev=>{
     lastMsg=performance.now(); msgCount++; VEN.kraken.last=Date.now();
     let m; try{m=JSON.parse(ev.data);}catch(e){return;}
-    if(m.channel==='book')onBook(m);
+    if(m.channel==='book'){if(m.data&&m.data[0]&&m.data[0].symbol&&m.data[0].symbol!==SYMBOL)onKB(m);else onBook(m);}
+    else if(m.channel==='ticker'&&m.data){for(const d of m.data)if(d.symbol)setRate('kraken',d.symbol.split('/')[0],d.bid,d.ask);}
     else if(m.channel==='trade')onTrades(m);
     else if(m.channel==='ohlc'&&m.data){for(const c of m.data)setOHLC(minuteOf(parseTs(c.interval_begin)),+c.open,+c.high,+c.low,+c.close,+c.volume);}
     else if(m.channel==='instrument'&&m.data&&m.data.pairs){
       const p=m.data.pairs.find(x=>x.symbol===SYMBOL);
       if(p){pricePrec=p.price_precision;qtyPrec=p.qty_precision;}
+      for(const s of KSY){const x=m.data.pairs.find(y=>y.symbol===s);if(x){KBK[s].pp=x.price_precision;KBK[s].qp=x.qty_precision;}}
       send({method:'unsubscribe',params:{channel:'instrument'}});
     }
     else if(m.channel==='status'&&m.data&&m.data[0]&&m.data[0].system!=='online')setConn('EXCHANGE '+m.data[0].system.toUpperCase());
@@ -699,7 +779,7 @@ function connect(){
 }
 function scheduleReconnect(){
   clearTimeout(reconnectTimer);
-  reconnects++; book.ready=false;
+  reconnects++; book.ready=false;for(const s in KBK)KBK[s].B.ready=false;
   setConn('RECONNECT IN '+Math.round(backoff/1000)+'S');
   reconnectTimer=setTimeout(connect,backoff);
   backoff=Math.min(backoff*2,30000);
@@ -1054,10 +1134,10 @@ function spVol(side,px,t0,tol,vs){let v=0,thr=false,reach=false;
     else{if(t.px>=px-tol){reach=true;if(t.side==='buy')v+=t.qty;if(t.px>px+tol)thr=true;}}}
   return {v,thr,reach};}
 function spVen(){   // per-venue levels mapped to the merged bucket keys + each venue's deepest visible price (depth-window / band edge)
-  if(CC.band){const use=BOOKS.filter(B=>B.ready&&(SRC==='all'||B.v===SRC)&&VEN[B.v].st==='LIVE'),one=use.length===1,BK=one?BUCK/2:BUCK;
+  if(CC.band){const use=useB().map(vw),one=use.length===1,BK=one?BUCK/2:BUCK;
     return use.map(B=>{let bb=0,aa=Infinity,mb=Infinity,ma=0;for(const p of B.b.keys()){if(p>bb)bb=p;if(p<mb)mb=p;}for(const p of B.a.keys()){if(p<aa)aa=p;if(p>ma)ma=p;}
       const m=(bb+aa)/2,lo=m*(1-BAND),hi=m*(1+BAND);return {v:B.v,bb:[...B.b].filter(x=>x[0]>=lo),aa:[...B.a].filter(x=>x[0]<=hi),kb:p=>+(Math.floor(p/BK)*BK).toFixed(KD),ka:p=>+(Math.ceil(p/BK)*BK).toFixed(KD),eb:Math.max(lo,mb),ea:Math.min(hi,ma)};});}
-  const use=BOOKS.filter(B=>B.ready&&(SRC==='all'||B.v===SRC)&&VEN[B.v].st==='LIVE'),one=use.length===1,key=p=>+(one?p:Math.round(p/BUCK)*BUCK).toFixed(KD);
+  const use=useB().map(vw),one=use.length===1,key=p=>+(one?p:Math.round(p/BUCK)*BUCK).toFixed(KD);
   return use.map(B=>{const bb=topLv(B.b,true,VDEPTH),aa=topLv(B.a,false,VDEPTH);return {v:B.v,bb,aa,kb:key,ka:key,eb:bb.length?bb[bb.length-1][0]:0,ea:aa.length?aa[aa.length-1][0]:Infinity};});}
 function spEv(o){o.tt=performance.now();SPF.ev.push(o);SPF.n[o.spoof?'spoof':o.kind]++;if(SPF.ev.length>80)SPF.ev.shift();}
 setInterval(()=>{
@@ -1723,10 +1803,12 @@ function renderSources(force){const n=performance.now();if(!force&&n-srcT<700)re
   const bt=$('srcBtns');if(bt&&!bt.childElementCount){bt.innerHTML=['all',...Object.keys(VEN)].map(k=>`<button data-s="${k}">${k==='all'?'ALL':VEN[k].t}</button>`).join('');
     bt.querySelectorAll('button').forEach(b=>b.onclick=e=>{e.stopPropagation();setSource(b.dataset.s);});}
   if(bt)bt.querySelectorAll('button').forEach(b=>b.classList.toggle('on',b.dataset.s===SRC));
-  setHTML('srcSel',SRC==='all'?'ALL':VEN[SRC].n);setHTML('depLbl',CC.band?(SRC==='all'?'ALL VENUES · $'+BUCK+' BUCKETS':VEN[SRC].n+' · $'+(BUCK/2)+' BUCKETS'):(SRC==='all'?'ALL VENUES · '+BUCK+' BUCKETS':VEN[SRC].n));
+  setHTML('srcSel',SRC==='all'?'ALL':VEN[SRC].n);{const who=SRC==='all'?'ALL VENUES':VEN[SRC].n;setHTML('depLbl',CC.band?who+' · $'+(COMB_ONE?BUCK/2:BUCK)+' BUCKETS':COMB_ONE?who:who+' · '+BUCK+' BUCKETS');}
   setHTML('srcList',Object.entries(VEN).map(([k,v])=>{const up=v.st==='LIVE'&&BOOKS.some(B=>B.v===k&&B.ready),c=up?'#2bff9a':v.st==='LIVE'||v.st==='CONN'?'#ffe600':'#ff3b6b';
     const dim=SRC!=='all'&&SRC!==k?' style="opacity:.45"':'';
-    return `<div class="row"${dim}><span><i class="dot" style="background:${c};box-shadow:0 0 6px ${c}"></i><span class="vt" style="color:${v.col}">${v.t}</span>${v.n}</span><span>${up?'':`<span class="rd">${v.st} </span>`}${(v.share*100).toFixed(0)}%</span></div>`;}).join(''));}
+    const qc=['USD',...SQ[k]].map(q=>{const B=BOOKS.find(x=>x.v===k&&(x.q||'USD')===q),on=B&&B.ready&&!B.off&&v.st==='LIVE'&&(!B.q||rateReady(k,q)),cls=B&&B.off?' x':on?' on':'',
+      t=q==='USD'?'USD pair':B&&B.off?q+' excluded: off-peg / off-price > 0.3%':q+' → USD @ '+rateOf(k,q).toFixed(4);return `<span class="qc${cls}" title="${t}">${q}</span>`;}).join('');
+    return `<div class="row"${dim}><span><i class="dot" style="background:${c};box-shadow:0 0 6px ${c}"></i><span class="vt" style="color:${v.col}">${v.t}</span>${v.n}</span><span>${up?'':`<span class="rd">${v.st} </span>`}${(v.share*100).toFixed(0)}%</span></div><div class="qcs"${dim}>${qc}</div>`;}).join(''));}
 function frame(){
   const now=performance.now();
   fpsN++; if(now-fpsT>2000){FPS=fpsN*1000/(now-fpsT);fpsN=0;fpsT=now;
@@ -1779,7 +1861,7 @@ function frame(){
 connect();seedREST();
 requestAnimationFrame(frame);
 document.addEventListener('visibilitychange',()=>{if(!document.hidden&&(!ws||ws.readyState>1)){backoff=1000;connect();}});
-window.__ofc={simEat(ms,kind,hold,px){EAT={t0:Date.now(),ms,kind:kind||'eat',hold:hold==null?0:hold,px:px||0,q0:0,lq:null};},get spoof(){return {n:{...SPF.n},trk:SPF.trk.size,ev:SPF.ev.slice(-6).map(o=>({k:o.kind,s:o.side,px:o.px,q0:+o.q0.toFixed(1),q1:+o.q1.toFixed(1),ratio:o.ratio,spoof:o.spoof,big:o.big,ven:o.ven}))}},get eat(){const n=performance.now();return EAT&&{px:EAT.px,q0:EAT.q0,ref:REFQ,cp:history.filter((h,i)=>i%8===0&&(n-h.t)/1000<=LWIN).map(h=>{const e=h.b.find(x=>x[0]===EAT.px);return e?[Math.round((n-h.t)/1000),+levelSpan(e[1],REFQ||h.maxq).toFixed(3)]:null;}).filter(Boolean)}},get mt(){return {w:+MT.w.toFixed(1),q:+MT.q.toFixed(2),z:+MT.z.toFixed(2),sg:MT.sg,burst:burst.on}},get lt(){return {w:+LT.w.toFixed(1),rho:+LT.rho.toFixed(2),lwin:+LWIN.toFixed(1),burst:burst.on}},get keyWalls(){return VIEW==='limit'?{...KEYW,nSig:{bid:topWalls.bid.length,ask:topWalls.ask.length},marks:PLBL.map(q=>q.txt)}:null},simFlat(){SIM={on:true,base:mid,t0:0,dir:0,amp:0,ramp:1};},simMove(dir,frac,ramp){SIM.t0=Date.now();SIM.dir=dir;SIM.amp=frac*SIM.base;SIM.ramp=ramp;},get resp(){const v=proj(HIST_SEC),m=proj(HIST_SEC*0.4);return {tw:+(TWIST_MAX*VSP.w*180/Math.PI).toFixed(2),vp:+(v.y-CY).toFixed(1),vm:+(m.y-CY).toFixed(1),o3:+((window.__ofcR||{}).o3||0).toFixed(1),o8:+((window.__ofcR||{}).o8||0).toFixed(1),mw:+MWIN.toFixed(1),dr:dispRange,pr:pathRef}},get bp(){return BP.length},autoOff(){pillT=0;if(rangeAuto)pillTap();},get dr(){return dispRange},get hubLogo(){return !WIDE&&LOGO.complete&&LOGO.naturalWidth>0},get hdrLogo(){const e=document.querySelector('#top .logo');return !!e&&getComputedStyle(e).display!=='none'},get flares(){return VIEW==='market'?[...FLR.entries()].map(([k,F])=>{const p=F.dx!=null?{x:F.dx,y:F.dy}:null;return {k,T:F.T,tT:trailT,st:trailStep,w:+F.w.toFixed(2),on:!!F.on,side:F.c===COL.bid?'bid':'ask',x:p?Math.round(p.x):null,y:p?Math.round(p.y):null};}):null},winTo(S){intro=null;setAuto(false);syncZA();let lo=0,hi=1;const f=u=>mWinOf(zR(u));const dec=f(0)>f(1);for(let i=0;i<40;i++){const m=(lo+hi)/2;if((f(m)>S)===dec)lo=m;else hi=m;}rangeFrac=zR((lo+hi)/2);return f((lo+hi)/2);},get vring(){if(VIEW!=='market')return null;const p=proj(HIST_SEC);return {full:+(RMAX*p.s).toFixed(1),r:+(RMAX*p.s).toFixed(1),x:Math.round(p.x),y:Math.round(p.y),R0:Math.round(R0)}},get twist(){return VIEW==='market'?+(TWIST_MAX*VSP.w*180/Math.PI).toFixed(1):0},get spin(){return {w:+VSP.w.toFixed(3),ph:+VSP.ph.toFixed(3)}},zManual(){intro=null;setAuto(false);syncZA();},get burst(){return {...burst,now:Date.now()}},simBurst(usd){const px=trades.length?trades[trades.length-1].px:mid,n=Date.now();for(let k=0;k<8;k++)trades.push({t:n-(7-k)*300,side:k%2?'sell':'buy',qty:usd/8/px,px,v:'kraken'});trailDirty=true;},get auto(){return rangeAuto},zAuto(){intro=null;setAuto(true);syncZA();},zIn(){intro=null;setAuto(false);rangeFrac=zR(1);syncZA();},get mwin(){return +MWIN.toFixed(1)},get lwin(){return +LWIN.toFixed(1)},get prange(){return PRANGE},get disp(){return dispRange},get plbl(){return PLBL.map(q=>q.txt)},get hubTxt(){return mid?hubTxt():null},get head(){return {x:Math.round(TRHEAD.x),y:Math.round(TRHEAD.y),CX,CY,R0:Math.round(R0),RMAX:Math.round(RMAX)}},get logo(){const g=logoGeom();return g&&{x:Math.round(g.x),y:Math.round(g.y),S:g.S,CX,CY,RMAX,W,H,Z:zbarGeom()}},get ven(){return Object.fromEntries(Object.entries(VEN).map(([k,v])=>[k,{st:v.st,share:+v.share.toFixed(3),books:BOOKS.filter(B=>B.v===k).map(B=>({k:B.k,ready:B.ready,n:B.b.size+B.a.size,ck:B.ckOk,ckBad:B.ckBad,resyncs:B.resyncs}))}]))},get src(){return SRC},setSource,get comb(){return {ready:BREADY,mid,bestBid,bestAsk,nb:sortedB.length,na:sortedA.length}},get raw(){return RAW.length},get flow(){const f=flow(30);return {b:Math.round(f.b),s:Math.round(f.s),r:+f.r.toFixed(3)}},get trendW(){return trendWin()},get win(){return winSec},get heatN(){return Object.fromEntries(Object.entries(HEATS).map(([w,H])=>[w,H.m.size]))},get intro(){return intro},book,get mid(){return mid},get ck(){return {ckOk,ckBad,ckLast}},get trades(){return tradeCount},get bubbles(){return bubbles.length},get hist(){return history.length},get ind(){return ind},get candles(){return candles.size},get dir(){return INBOUND?'in':'out'},get view(){return VIEW},get layout(){return {W,H,CX,CY,RMAX,R0,WIDE}},get tunnel(){const far=proj(HIST_SEC);return {FOCAL,farScale:far.s,farY:far.y-CY,dispRange,fitFrac,rangeAuto,RMAX}},zoom(f){setAuto(false);rangeFrac=Math.min(0.08,Math.max(0.0005,rangeFrac*f));},autoZoom(){setAuto(true);},get autoOn(){return rangeAuto},get zgeom(){return zbarGeom()},get conn(){return connState},get fps(){return FPS},get q(){return Q},get rc(){return reconnects},forceDrop(){ws&&ws.close();}};
+window.__ofc={simEat(ms,kind,hold,px){EAT={t0:Date.now(),ms,kind:kind||'eat',hold:hold==null?0:hold,px:px||0,q0:0,lq:null};},get spoof(){return {n:{...SPF.n},trk:SPF.trk.size,ev:SPF.ev.slice(-6).map(o=>({k:o.kind,s:o.side,px:o.px,q0:+o.q0.toFixed(1),q1:+o.q1.toFixed(1),ratio:o.ratio,spoof:o.spoof,big:o.big,ven:o.ven}))}},get eat(){const n=performance.now();return EAT&&{px:EAT.px,q0:EAT.q0,ref:REFQ,cp:history.filter((h,i)=>i%8===0&&(n-h.t)/1000<=LWIN).map(h=>{const e=h.b.find(x=>x[0]===EAT.px);return e?[Math.round((n-h.t)/1000),+levelSpan(e[1],REFQ||h.maxq).toFixed(3)]:null;}).filter(Boolean)}},get mt(){return {w:+MT.w.toFixed(1),q:+MT.q.toFixed(2),z:+MT.z.toFixed(2),sg:MT.sg,burst:burst.on}},get lt(){return {w:+LT.w.toFixed(1),rho:+LT.rho.toFixed(2),lwin:+LWIN.toFixed(1),burst:burst.on}},get keyWalls(){return VIEW==='limit'?{...KEYW,nSig:{bid:topWalls.bid.length,ask:topWalls.ask.length},marks:PLBL.map(q=>q.txt)}:null},simFlat(){SIM={on:true,base:mid,t0:0,dir:0,amp:0,ramp:1};},simMove(dir,frac,ramp){SIM.t0=Date.now();SIM.dir=dir;SIM.amp=frac*SIM.base;SIM.ramp=ramp;},get resp(){const v=proj(HIST_SEC),m=proj(HIST_SEC*0.4);return {tw:+(TWIST_MAX*VSP.w*180/Math.PI).toFixed(2),vp:+(v.y-CY).toFixed(1),vm:+(m.y-CY).toFixed(1),o3:+((window.__ofcR||{}).o3||0).toFixed(1),o8:+((window.__ofcR||{}).o8||0).toFixed(1),mw:+MWIN.toFixed(1),dr:dispRange,pr:pathRef}},get bp(){return BP.length},autoOff(){pillT=0;if(rangeAuto)pillTap();},get dr(){return dispRange},get hubLogo(){return !WIDE&&LOGO.complete&&LOGO.naturalWidth>0},get hdrLogo(){const e=document.querySelector('#top .logo');return !!e&&getComputedStyle(e).display!=='none'},get flares(){return VIEW==='market'?[...FLR.entries()].map(([k,F])=>{const p=F.dx!=null?{x:F.dx,y:F.dy}:null;return {k,T:F.T,tT:trailT,st:trailStep,w:+F.w.toFixed(2),on:!!F.on,side:F.c===COL.bid?'bid':'ask',x:p?Math.round(p.x):null,y:p?Math.round(p.y):null};}):null},winTo(S){intro=null;setAuto(false);syncZA();let lo=0,hi=1;const f=u=>mWinOf(zR(u));const dec=f(0)>f(1);for(let i=0;i<40;i++){const m=(lo+hi)/2;if((f(m)>S)===dec)lo=m;else hi=m;}rangeFrac=zR((lo+hi)/2);return f((lo+hi)/2);},get vring(){if(VIEW!=='market')return null;const p=proj(HIST_SEC);return {full:+(RMAX*p.s).toFixed(1),r:+(RMAX*p.s).toFixed(1),x:Math.round(p.x),y:Math.round(p.y),R0:Math.round(R0)}},get twist(){return VIEW==='market'?+(TWIST_MAX*VSP.w*180/Math.PI).toFixed(1):0},get spin(){return {w:+VSP.w.toFixed(3),ph:+VSP.ph.toFixed(3)}},zManual(){intro=null;setAuto(false);syncZA();},get burst(){return {...burst,now:Date.now()}},simBurst(usd){const px=trades.length?trades[trades.length-1].px:mid,n=Date.now();for(let k=0;k<8;k++)trades.push({t:n-(7-k)*300,side:k%2?'sell':'buy',qty:usd/8/px,px,v:'kraken'});trailDirty=true;},get auto(){return rangeAuto},zAuto(){intro=null;setAuto(true);syncZA();},zIn(){intro=null;setAuto(false);rangeFrac=zR(1);syncZA();},get mwin(){return +MWIN.toFixed(1)},get lwin(){return +LWIN.toFixed(1)},get prange(){return PRANGE},get disp(){return dispRange},get plbl(){return PLBL.map(q=>q.txt)},get hubTxt(){return mid?hubTxt():null},get head(){return {x:Math.round(TRHEAD.x),y:Math.round(TRHEAD.y),CX,CY,R0:Math.round(R0),RMAX:Math.round(RMAX)}},get logo(){const g=logoGeom();return g&&{x:Math.round(g.x),y:Math.round(g.y),S:g.S,CX,CY,RMAX,W,H,Z:zbarGeom()}},get ven(){return Object.fromEntries(Object.entries(VEN).map(([k,v])=>[k,{st:v.st,share:+v.share.toFixed(3),books:BOOKS.filter(B=>B.v===k).map(B=>({k:B.k,q:B.q||'USD',off:!!B.off,prem:B.prem==null?null:+B.prem.toFixed(5),rate:+rateOf(k,B.q).toFixed(5),ready:B.ready,n:B.b.size+B.a.size,ck:B.ckOk,ckBad:B.ckBad,resyncs:B.resyncs}))}]))},get src(){return SRC},setSource,get rates(){return JSON.parse(JSON.stringify(RATE))},simPeg(v,q,r){if(r)PSIM[v+'|'+q]=r;else delete PSIM[v+'|'+q];},get sq(){return SQ},get peg(){return PEG},get rawQ(){const o={};for(const t of RAW){const k=t.v+':'+(t.q||'USD');o[k]=(o[k]||0)+1;}return o},get comb(){return {ready:BREADY,mid,bestBid,bestAsk,nb:sortedB.length,na:sortedA.length}},get raw(){return RAW.length},get flow(){const f=flow(30);return {b:Math.round(f.b),s:Math.round(f.s),r:+f.r.toFixed(3)}},get trendW(){return trendWin()},get win(){return winSec},get heatN(){return Object.fromEntries(Object.entries(HEATS).map(([w,H])=>[w,H.m.size]))},get intro(){return intro},book,get mid(){return mid},get ck(){return {ckOk,ckBad,ckLast}},get trades(){return tradeCount},get bubbles(){return bubbles.length},get hist(){return history.length},get ind(){return ind},get candles(){return candles.size},get dir(){return INBOUND?'in':'out'},get view(){return VIEW},get layout(){return {W,H,CX,CY,RMAX,R0,WIDE}},get tunnel(){const far=proj(HIST_SEC);return {FOCAL,farScale:far.s,farY:far.y-CY,dispRange,fitFrac,rangeAuto,RMAX}},zoom(f){setAuto(false);rangeFrac=Math.min(0.08,Math.max(0.0005,rangeFrac*f));},autoZoom(){setAuto(true);},get autoOn(){return rangeAuto},get zgeom(){return zbarGeom()},get conn(){return connState},get fps(){return FPS},get q(){return Q},get rc(){return reconnects},forceDrop(){ws&&ws.close();}};
 })();
 // ---------------- INFO overlay: what am I looking at? (✕ / tap outside / Esc) ----------------
 (function(){const I=document.getElementById('info'),B=document.getElementById('infoBtn');if(!I||!B)return;
